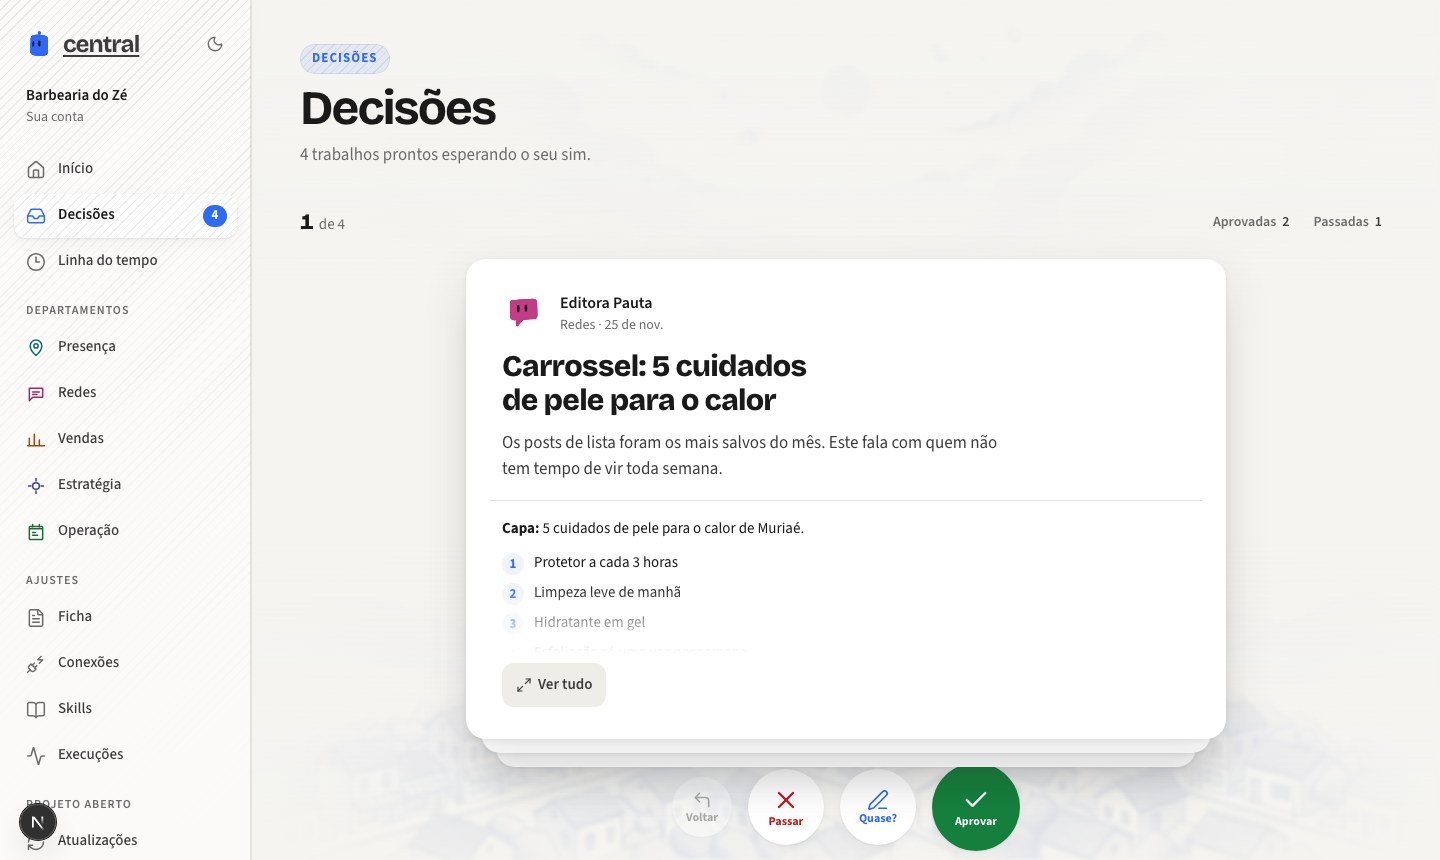
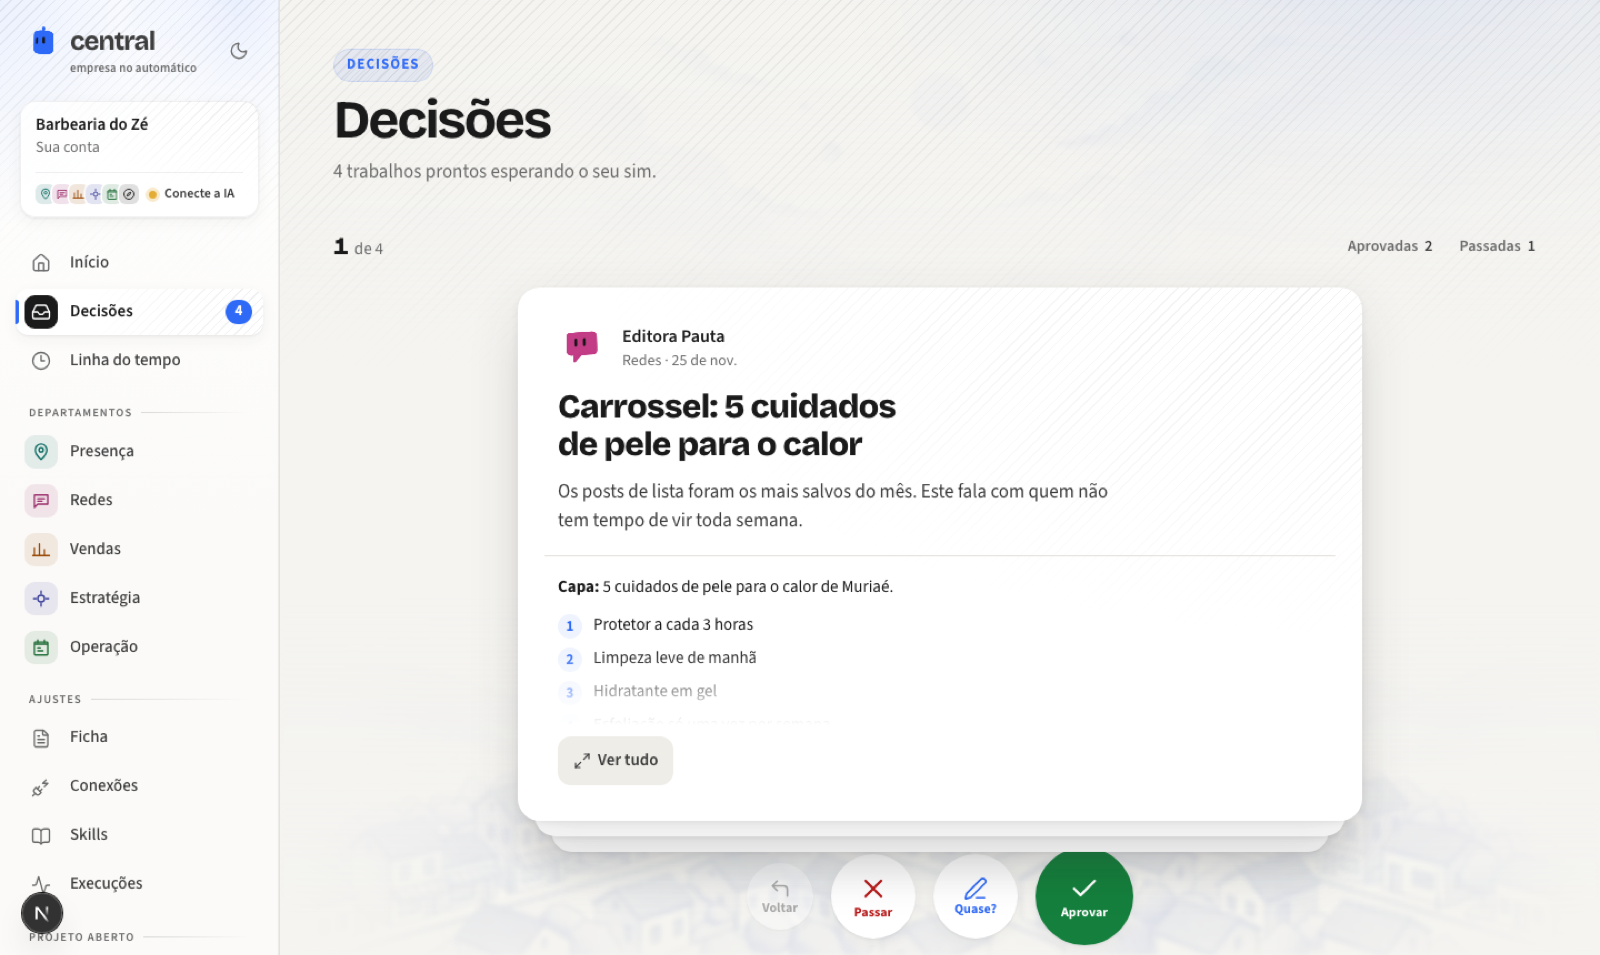
feat: cancela do pedágio pulando na sidebar; README com galeria das telas

diff --git a/src/components/central/projeto-aberto/cancela.tsx b/src/components/central/projeto-aberto/cancela.tsx
@@ -1,0 +1,45 @@
+"use client";
+
+import { useEffect, useState } from "react";
+
+const CHAVE = "central:pedagio";
+const TOTAL = 4;
+
+/** Ainda falta pagar o pedágio? (guardado neste navegador pela página Pedágio) */
+export function usePedagioPendente() {
+  const [pendente, setPendente] = useState(false);
+  useEffect(() => {
+    const ler = () => {
+      try {
+        setPendente((JSON.parse(localStorage.getItem(CHAVE) ?? "[]") as string[]).length < TOTAL);
+      } catch {
+        setPendente(true);
+      }
+    };
+    ler();
+    window.addEventListener("storage", ler);
+    window.addEventListener("central:pedagio", ler);
+    return () => {
+      window.removeEventListener("storage", ler);
+      window.removeEventListener("central:pedagio", ler);
+    };
+  }, []);
+  return pendente;
+}
+
+/** Cancela de pedágio que pula de tempos em tempos, como uma notificação. */
+export function Cancela() {
+  return (
+    <span className="cx-cancela" title="Pedágio pendente" aria-label="Pedágio pendente">
+      <svg viewBox="0 0 24 20" className="cx-cancela-pula" aria-hidden="true">
+        <rect x="3" y="7" width="4" height="12" rx="1.5" fill="#3d4450" />
+        <rect x="1.5" y="17.5" width="7" height="2.5" rx="1" fill="#3d4450" />
+        <g className="cx-cancela-braco">
+          <rect x="4" y="8" width="19" height="4" rx="2" fill="#fff" stroke="#c0262d" strokeWidth="0.8" />
+          <path d="M8 8h3l-2 4H6zM14 8h3l-2 4h-3zM20 8h2.5v1.5L21 12h-3z" fill="#c0262d" />
+        </g>
+        <circle cx="5" cy="10" r="1.6" fill="#e3ad35" />
+      </svg>
+    </span>
+  );
+}

diff --git a/src/app/globals.css b/src/app/globals.css
@@ -181,3 +181,18 @@ button, input, select, textarea { font: inherit; }
   border-radius: 14px !important; background: color-mix(in srgb, var(--cx-card) 82%, transparent) !important;
   box-shadow: var(--cx-sombra), inset 0 0 0 1px color-mix(in srgb, currentColor 7%, transparent) !important;
 }
+
+/* Pedágio pendente: a cancela pula de tempos em tempos (igual ao Garimpo). */
+.cx-cancela { margin-left: auto; position: relative; display: grid; place-items: center; width: 28px; height: 24px; border-radius: 999px; background: color-mix(in srgb, #e3ad35 15%, transparent); animation: cx-pulso 2.8s ease-out infinite; }
+.cx-cancela-pula { width: 18px; height: 15px; overflow: visible; transform-origin: 50% 100%; animation: cx-cancela-pula 2.8s cubic-bezier(0.3, 0, 0.3, 1) infinite; }
+.cx-cancela-braco { transform-origin: 6px 10px; transform-box: view-box; animation: cx-cancela-braco 2.8s cubic-bezier(0.3, 0, 0.3, 1) infinite; }
+@keyframes cx-cancela-pula {
+  0%, 62%, 100% { transform: translateY(0) scale(1, 1); }
+  66% { transform: translateY(0) scale(1.08, 0.9); }
+  74% { transform: translateY(-5px) scale(0.95, 1.06); }
+  82% { transform: translateY(0) scale(1.04, 0.96); }
+  88% { transform: translateY(-1.5px) scale(1, 1); }
+}
+@keyframes cx-cancela-braco { 0%, 64%, 100% { transform: rotate(0deg); } 72%, 84% { transform: rotate(-38deg); } }
+@keyframes cx-pulso { 0%, 60% { box-shadow: 0 0 0 0 rgba(227, 173, 53, 0.55); } 90%, 100% { box-shadow: 0 0 0 7px rgba(227, 173, 53, 0); } }
+@media (prefers-reduced-motion: reduce) { .cx-cancela, .cx-cancela-pula, .cx-cancela-braco { animation: none; } }

diff --git a/src/components/central/barra-lateral.tsx b/src/components/central/barra-lateral.tsx
@@ -8,6 +8,7 @@ import { SimboloCx } from "@/components/central/chefe";
 import { usePendentes } from "@/components/central/contador-decisoes";
 import { Icone, type NomeIcone } from "@/components/central/icones";
 import { LogoCentral } from "@/components/central/logo";
+import { Cancela, usePedagioPendente } from "@/components/central/projeto-aberto/cancela";
 import { MenuConta, type UsuarioMenu } from "@/components/central/menu-conta";
 import { TemaBotao } from "@/components/central/tema-botao";
 import type { IdChefe } from "@/lib/chefes/identidade";
@@ -43,6 +44,7 @@ export function BarraLateral({
   const caminho = usePathname();
   const pendentesAgora = usePendentes(pendentes);
   const [aberto, setAberto] = useState(false);
+  const pedagioPendente = usePedagioPendente();
 
   const grupos: Array<{ rotulo: string | null; itens: Item[] }> = [
     {
@@ -149,6 +151,7 @@ export function BarraLateral({
                     <Link href={it.href} className="cx-nav-item" data-chefe={typeof it.icone === "string" ? undefined : it.icone.chefe} aria-current={ativo(it.href) ? "page" : undefined}>
                       {desenho(it.icone)}
                       <span>{it.rotulo}</span>
+                      {it.href === "/central/pedagio" && pedagioPendente ? <Cancela /> : null}
                       {it.contador ? (
                         <span className="cx-contador" aria-label={`${it.contador} esperando`}>
                           {it.contador}

diff --git a/src/components/central/projeto-aberto/pedagio.tsx b/src/components/central/projeto-aberto/pedagio.tsx
@@ -22,6 +22,7 @@ export function ListaPedagio({ itens }: { itens: ItemPedagio[] }) {
       const novo = sim ? [...new Set([...atual, id])] : atual.filter((x) => x !== id);
       try {
         localStorage.setItem(CHAVE, JSON.stringify(novo));
+        window.dispatchEvent(new Event("central:pedagio"));
       } catch {
         /* sem armazenamento */
       }

diff --git a/README.md b/README.md
@@ -46,7 +46,18 @@ E ainda:
 
 Nada de chave minha aqui dentro. A IA roda na **sua** chave (Claude, GPT, Gemini, DeepSeek, Grok ou OpenRouter), cobrada direto pelo provedor. As chaves ficam cifradas no seu banco.
 
-<p align="center"><img src="docs/telas/inicio.png" alt="Início da Central" width="900"></p>
+## Telas
+
+<p align="center"><img src="docs/telas/inicio.png" alt="Início: a ação da semana e a equipe" width="900"></p>
+
+| | |
+| --- | --- |
+| <img src="docs/telas/entrar.png" alt="Entrar"> | <img src="docs/telas/onboarding.png" alt="Onboarding: o Rastro acha a empresa no Google Maps"> |
+| **Entrar**: a equipe viva do lado. | **Onboarding**: o Rastro acha a empresa no Maps e preenche a ficha. Todo passo pula. |
+| <img src="docs/telas/decisoes.png" alt="Decisões"> | <img src="docs/telas/vendas.png" alt="Vendas"> |
+| **Decisões**: aprovar, pedir ajuste ou passar. | **Vendas**: tudo o que o Negociador Trato faz, um botão por ação. |
+| <img src="docs/telas/conta.png" alt="Conta da rede"> | <img src="docs/telas/post.png" alt="Post aberto"> |
+| **Contas das redes**: perfil, seguidores e os posts. | **Post aberto**: cada métrica contra a média da conta. |
 
 ---
 
